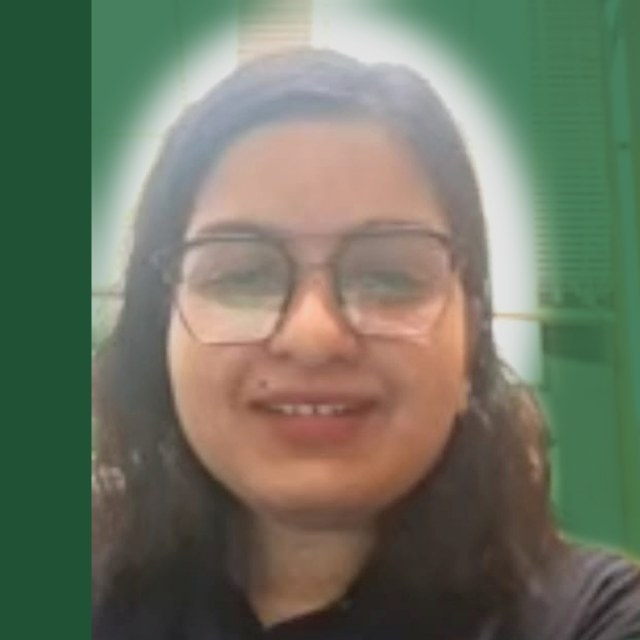
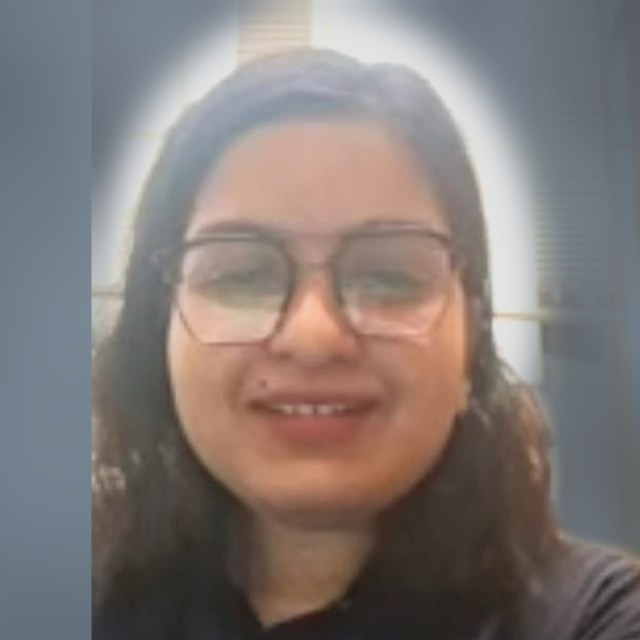
Plain round portrait on a studio-style backdrop

diff --git a/css/style.css b/css/style.css
@@ -107,8 +107,8 @@ ul, ol, dl, dd { margin: 0; padding: 0; list-style: none; }
 /* The hero is a deep-green band (same as the contact band) with white text and gold details */
 .hero { background: var(--band); color: var(--on-green); padding-top: clamp(48px, 7vw, 96px); padding-bottom: clamp(56px, 8vw, 104px); border-bottom: 3px solid var(--gold); }
 .hero.has-photo .hero__photo { aspect-ratio: 1; border-radius: 50%;
-  box-shadow: 0 0 0 5px rgba(6,40,27,.55), 0 0 0 6px var(--gold-soft), 0 18px 40px rgba(0,0,0,.35); }
-.hero.has-photo .hero__portrait { width: min(100%, 280px); }
+  box-shadow: 0 10px 30px rgba(0,0,0,.3); }   /* plain circle, no ring (studio-portrait style) */
+.hero.has-photo .hero__portrait { width: min(100%, 260px); }
 /* Background: the 25 de Abril bridge in Lisbon, mirrored so it sits on the left behind the text and her photo has calm sky behind it, toned to the site green (assets/hero-bridge.jpg,
    photo by Mo on Unsplash, Unsplash License). The gradient keeps the text side calm and readable. */
 .hero {
@@ -432,3 +432,5 @@ ul, ol, dl, dd { margin: 0; padding: 0; list-style: none; }
   .section { padding-block: 18px; }
   .section--tint { background: #fff; }
 }
+
+@media (max-width: 680px) { .hero.has-photo .hero__portrait { width: 150px; } }
